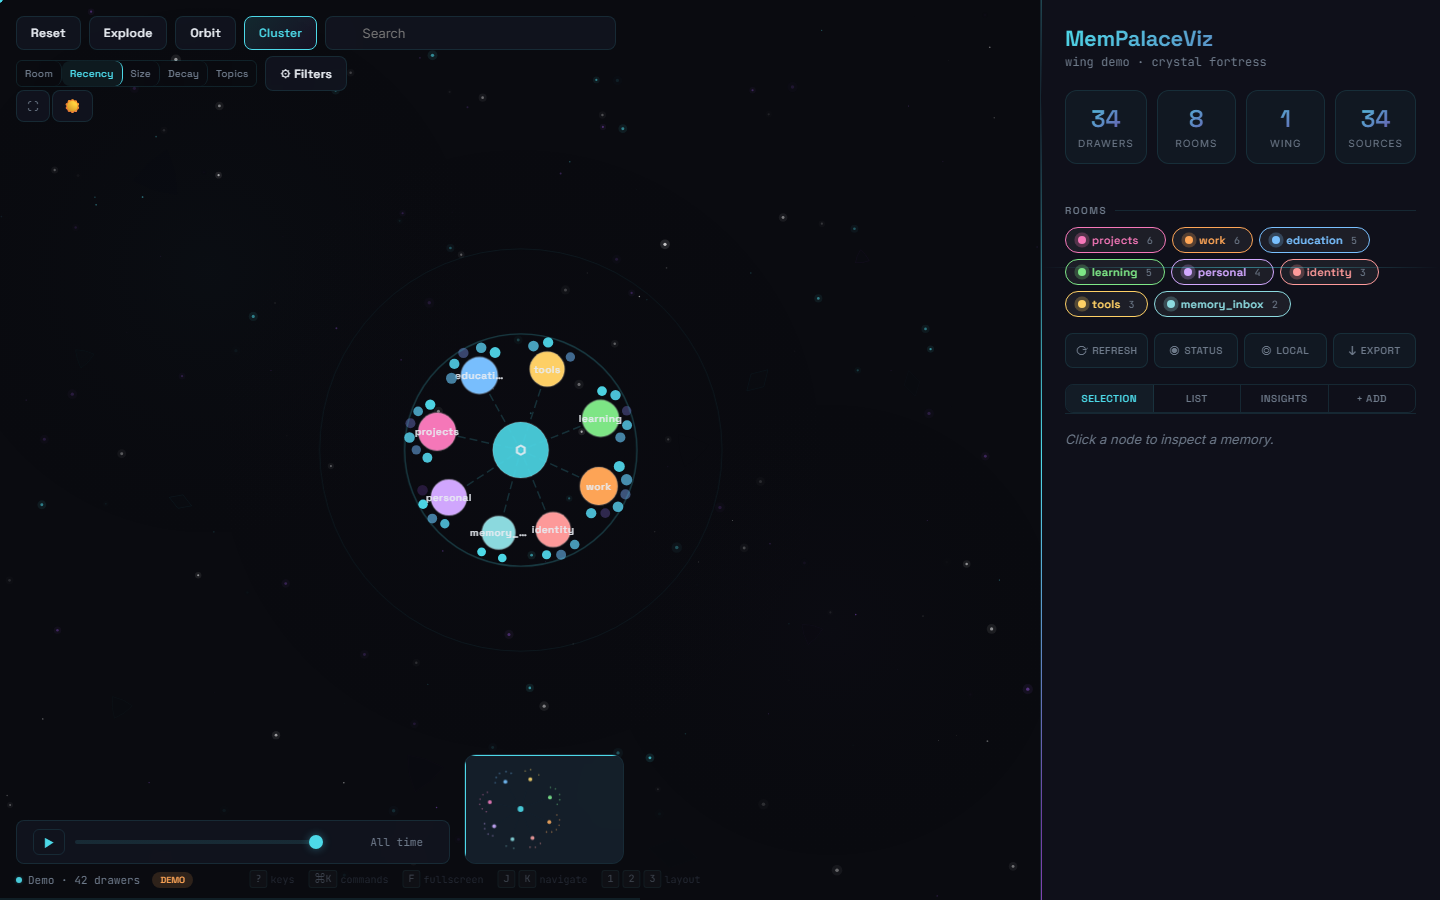
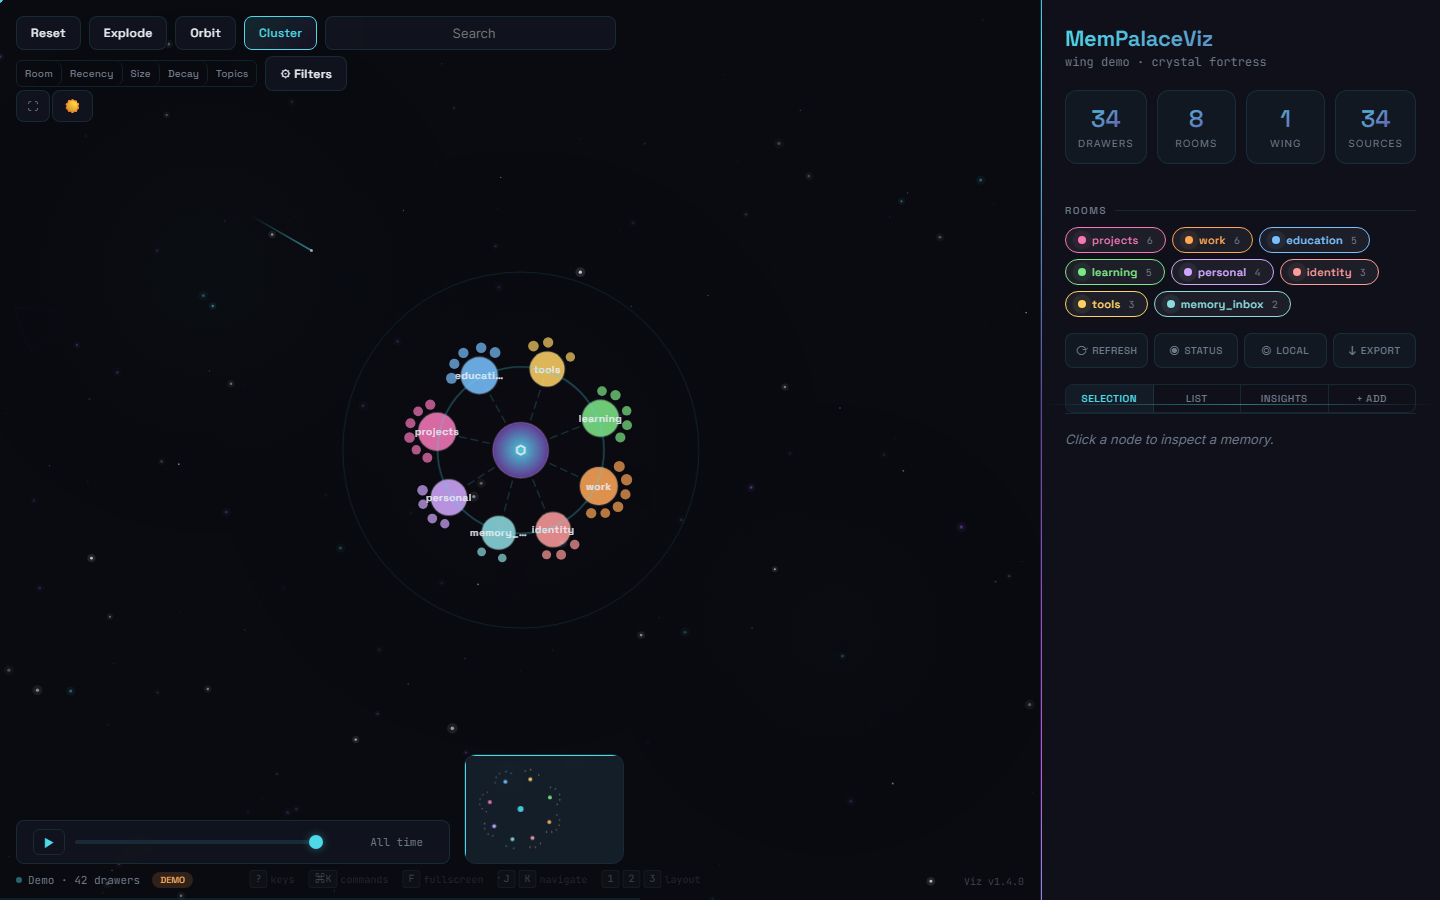
Update README features and refresh all screenshots for v1.4.0
Added v3.3.0 API integration, connection settings, version tracker,
and themed tooltips to feature list. Recaptured all 12 screenshots
reflecting the current v1.4.0 UI.

diff --git a/README.md b/README.md
@@ -18,23 +18,30 @@ Built as a single-file SPA with D3.js force-directed graphs, canvas particle eff
 |:---:|:---:|
 | ![Drawer Detail](docs/screenshots/drawer-detail.png) | ![Drawer List](docs/screenshots/drawer-list.png) |
 
-| Connection Settings | Command Palette | Mobile |
-|:---:|:---:|:---:|
-| ![Connection Settings](docs/screenshots/connection-settings.png) | ![Command Palette](docs/screenshots/command-palette.png) | ![Mobile](docs/screenshots/mobile-view.png) |
+| Themed Tooltips | Connection Settings |
+|:---:|:---:|
+| ![Themed Tooltips](docs/screenshots/tooltip-demo.png) | ![Connection Settings](docs/screenshots/connection-settings.png) |
+
+| Command Palette | Mobile |
+|:---:|:---:|
+| ![Command Palette](docs/screenshots/command-palette.png) | ![Mobile](docs/screenshots/mobile-view.png) |
 
 ## Features
 
 - **Force-directed graph** rendering hundreds of knowledge nodes across rooms
+- **MemPalace v3.3.0 integration** — paginated `list_drawers`, `get_drawer` full content, `update_drawer` inline edit, `delete_drawer` by ID
+- **Connection settings** — 3-tab modal (Local Server, Hosted, Demo) with auto-detection and Test & Connect
+- **Version tracker** — badge showing Viz + Palace versions, update checker via GitHub Releases and PyPI
+- **Themed tooltips** — 54 glassmorphic tooltips replacing native browser titles, with dynamic arrow alignment
 - **5 color modes:** Room, Recency, Size, Decay, and Semantic Topics (TF-IDF + k-means clustering)
 - **3 layout modes:** Explode, Orbit, Cluster
 - **Crystal Palace light theme** with sparkle particle effects
 - **Fuzzy multi-token search** with date range filters
 - **Structural gap detection** with Palace Health Score (0-100)
-- **Live MCP integration** for real-time data from MemPalace server
-- **Drawer management:** add, delete, find tunnels (related drawers)
+- **Drawer management:** add, edit, delete, fetch full content, find tunnels (related drawers)
 - **Bulk operations:** select, export, delete multiple drawers
 - **Timeline slider** with play/pause animation
-- **Command palette** (Ctrl+K) with 19 commands
+- **Command palette** (Ctrl+K) with 20+ commands
 - **Full keyboard navigation** (J/K, Enter, Escape, ?, F, L)
 - **Mobile responsive** bottom-sheet panel with touch gestures
 - **PNG screenshot capture** and JSON export
